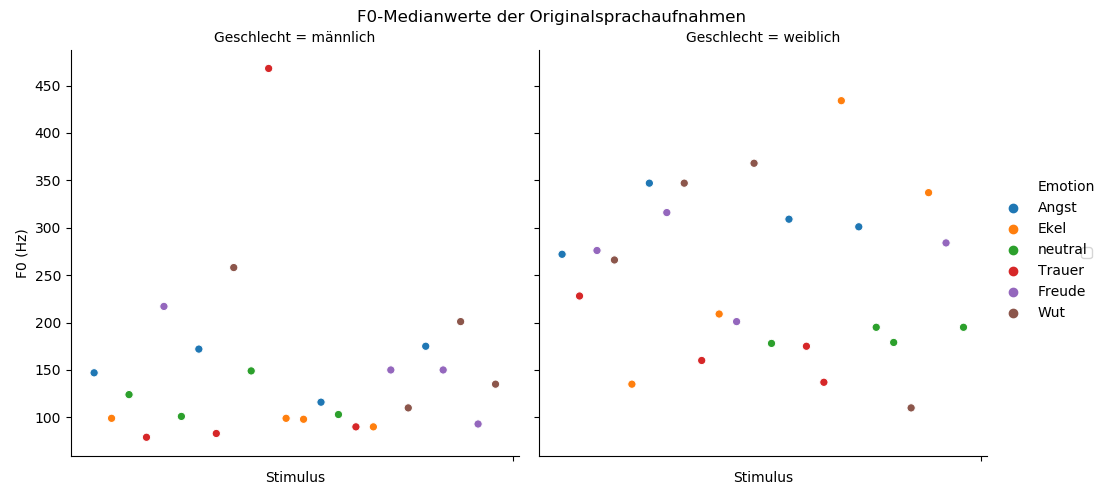
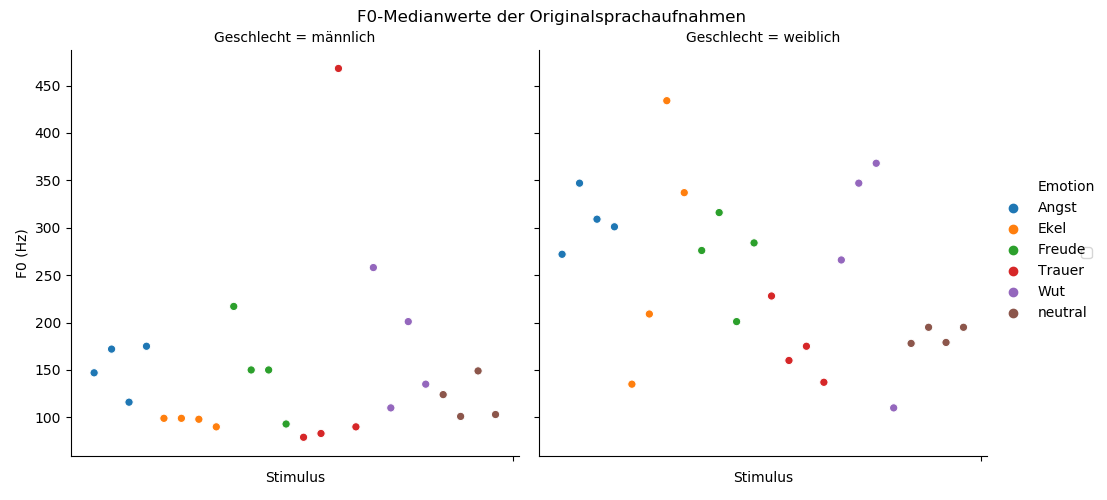
plotting aggregated f0 per emotion and per sex optimized

diff --git a/Plotter.py b/Plotter.py
@@ -274,15 +274,20 @@ def analyze_pitch():
     f0_aggregation = pd.read_csv('f0_aggregation.csv')
     f0_m = f0_aggregation.loc[f0_aggregation['Geschlecht']=='männlich']
     f0_f = f0_aggregation.loc[f0_aggregation['Geschlecht'] == 'weiblich']
+
+    f0_aggregation = f0_aggregation.sort_values(by=['Emotion', 'Geschlecht'])
     '''
     sns.relplot(x="sound", y="f0_mean", hue="emotion", size="sex",
                 sizes=(40, 400), alpha=.5, palette="muted",
                 height=6, data=f0_aggregation)
     plt.savefig('plots/f0/f0_mean.png')
     '''
-    g = sns.relplot(x="sound", y="f0_mean", hue="Emotion",col="Geschlecht",data=f0_aggregation)
+    g = sns.relplot(x="sound", y="f0_mean", hue="Emotion",col="Emotion",data=f0_aggregation, style='Geschlecht',
+                     size='Geschlecht', sizes=(100, 50),row_order=['Emotion'], col_wrap=3)
     g.set_ylabels('F0 (Hz)')
     g.set_xlabels('Stimulus')
+    #g.axes.set_xticks(range(1, len(f0_aggregation['Emotion'].unique()) + 1))
+    #g.set_xticklabels(f0_aggregation['Emotion'].unique(), step=6, rotation=30)
     plt.xticks('')
 
     g.fig.suptitle('F0-Durchschnittswerte der Originalsprachaufnahmen ')
@@ -290,7 +295,7 @@ def analyze_pitch():
     g.fig.tight_layout()
     plt.subplots_adjust(top=0.9)
     #plt.title('F0-Durchschnittswerte der Originalsprachaufnahmen')
-    plt.savefig('plots/f0/f0_mean_two_in_one.png')
+    plt.savefig('plots/f0/f0_mean_per_emotion_sorted_sex.png')
 
     plt.clf()
 
